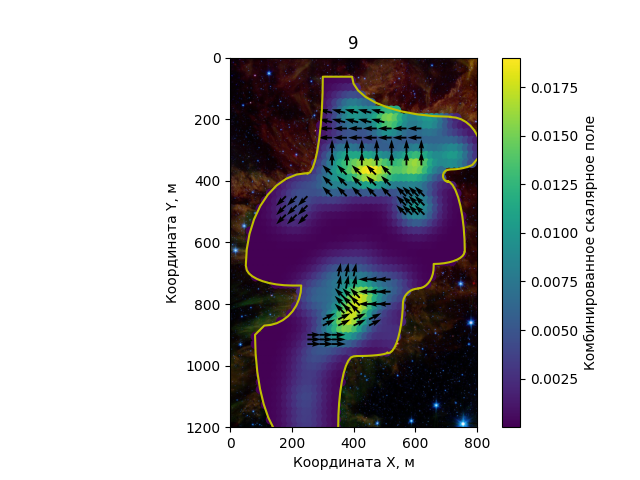
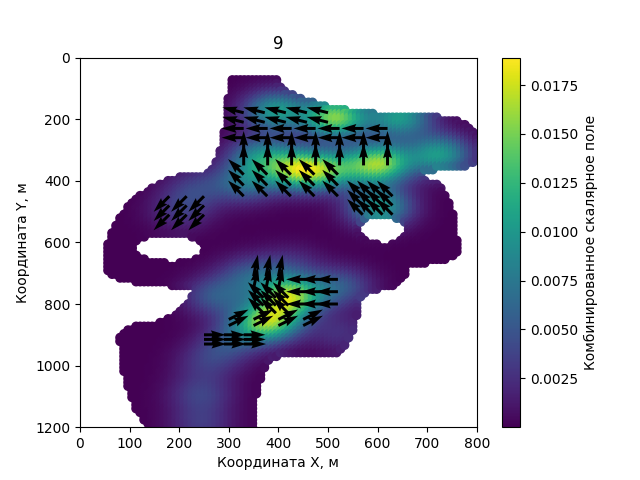
eeeeeeeee22221111122222111111

diff --git a/NGC_2264.py b/NGC_2264.py
@@ -118,6 +118,16 @@ y16 = 900 + 350*np.sin(t16)
 x = np.append(x, x16)
 y = np.append(y, y16)
 
+ti = np.linspace(0, 2*np.pi, 10)
+xi = 610 + 50 * np.cos(ti)
+yi = 560 + 50 * np.sin(ti)
+
+tj = np.linspace(0, 2*np.pi, 10)
+xj = 180 + 75 * np.cos(tj)
+yj = 620 + 50 * np.sin(tj)
+
+
+
 spline_coords, figure_spline_part = interpolate.splprep([x, y], s=0)
 spline_curve = interpolate.splev(figure_spline_part, spline_coords)
 
@@ -128,6 +138,26 @@ for i in range(len(spline_curve[0])):
 polygon = geom.Polygon(curve_coords)
 points_number_per_side = 50
 
+spline_coords, figure_spline_part = interpolate.splprep([xi, yi], s=0)
+spline_curve = interpolate.splev(figure_spline_part, spline_coords)
+
+curve_coords = []
+for i in range(len(spline_curve[0])):
+    curve_coords.append([spline_curve[0][i], spline_curve[1][i]])
+    
+polygoni = geom.Polygon(curve_coords)
+points_number_per_side = 50
+
+spline_coords, figure_spline_part = interpolate.splprep([xj, yj], s=0)
+spline_curve = interpolate.splev(figure_spline_part, spline_coords)
+
+curve_coords = []
+for i in range(len(spline_curve[0])):
+    curve_coords.append([spline_curve[0][i], spline_curve[1][i]])
+    
+polygonj = geom.Polygon(curve_coords)
+points_number_per_side = 100
+
 x_pictures_limits = [0, 800]
 y_pictures_limits = [0, 1200]
 
@@ -136,6 +166,10 @@ points_coords = []
 for x_point_coord in np.linspace(*x_pictures_limits, points_number_per_side):
     for y_point_coord in np.linspace(*y_pictures_limits, points_number_per_side):
         p = geom.Point(x_point_coord, y_point_coord)
+        if p.within(polygonj):
+            continue
+        if p.within(polygoni):
+            continue
         if p.within(polygon):
             plt.plot(x_point_coord, y_point_coord, 'bo', ms = 0.5)
             points_coords.append(x_point_coord)
@@ -165,12 +199,11 @@ for i in range(0, len(x_p)):
 
 fig, ax = plt.subplots()
 
-ax.imshow(img)
 sc_plot = ax.scatter(x_p, y_p, c=scalar_fields)
-plt.plot(spline_curve[0], spline_curve[1], 'y')
 ax.set_ylabel('Координата Y, м')
 ax.set_xlabel('Координата X, м')
 
+# ax.imshow(img)
 cbar = fig.colorbar(sc_plot)
 cbar.set_label("Комбинированное скалярное поле")       
 
